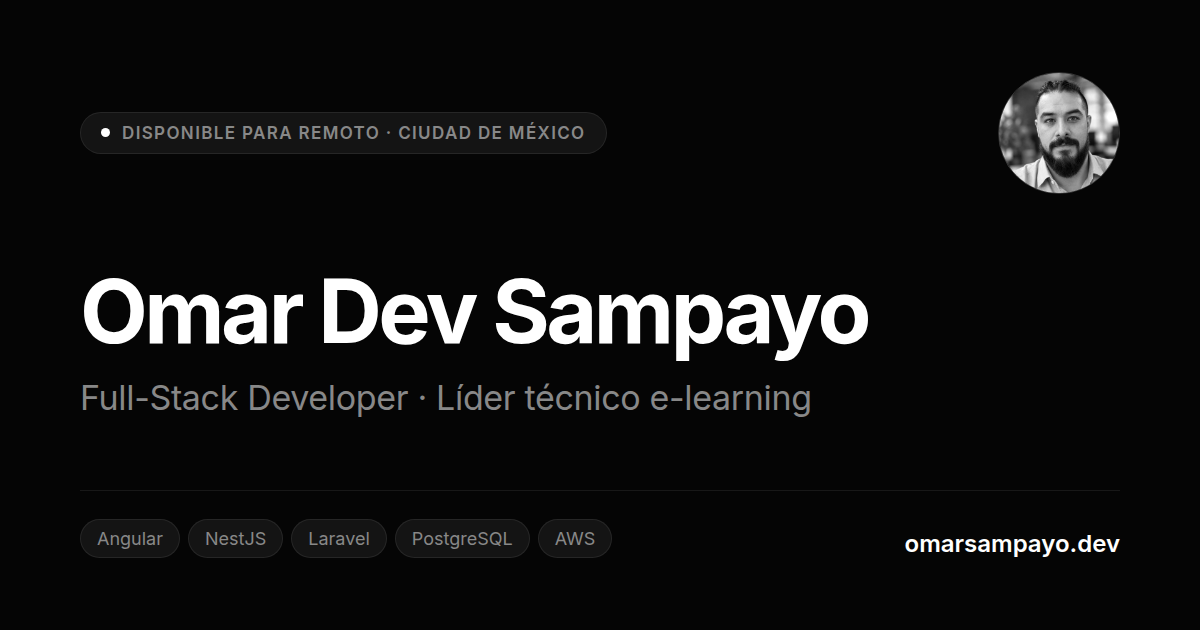
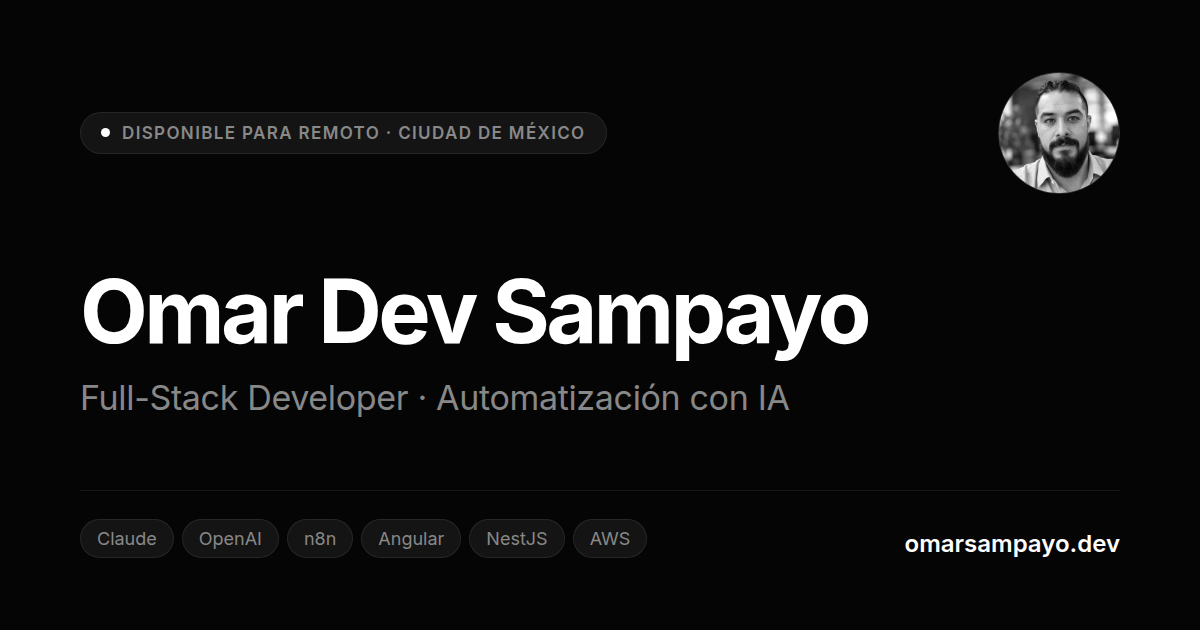
Enfoca el titular en automatización con IA
El puesto de líder técnico se queda en la experiencia; la portada, la
descripción para buscadores y la imagen para redes destacan la
automatización con IA.

Changed region(s): [[0.3392, 0.6032, 0.6783, 0.6635], [0.0617, 0.8444, 0.5242, 0.8746]]

diff --git a/src/data/sitio.ts b/src/data/sitio.ts
@@ -11,12 +11,11 @@ export const perfil = {
   nombreCorto: 'Omar Dev',
   rol: 'Full-Stack Developer',
   rolIA: 'Automatización con IA',
-  cargo: 'Líder técnico e-learning',
   ubicacion: 'Ciudad de México',
   disponibilidad: 'Disponible para remoto · Ciudad de México',
-  lema: 'Construyo software de punta a punta, modernizo sistemas heredados y automatizo procesos con IA para resolver problemas reales de negocio con claridad y estabilidad.',
+  lema: 'Construyo software de punta a punta y automatizo procesos con IA: desde pipelines que investigan, producen y publican contenido casi sin intervención hasta sistemas heredados que vuelvo operables y medibles.',
   descripcion:
-    'Full-stack developer y líder técnico de la plataforma de educación financiera de Banco Azteca en México, Guatemala y Honduras. Tomo sistemas heredados y los vuelvo operables, medibles y confiables.',
+    'Full-stack developer especializado en automatización con IA. Construyo software de punta a punta, pipelines con IA en producción y modernizo sistemas heredados, como una plataforma bancaria en tres países.',
   correo: 'omar.1993.ds@hotmail.com',
   github: 'https://github.com/GearSpeed',
   githubUsuario: 'GearSpeed',
